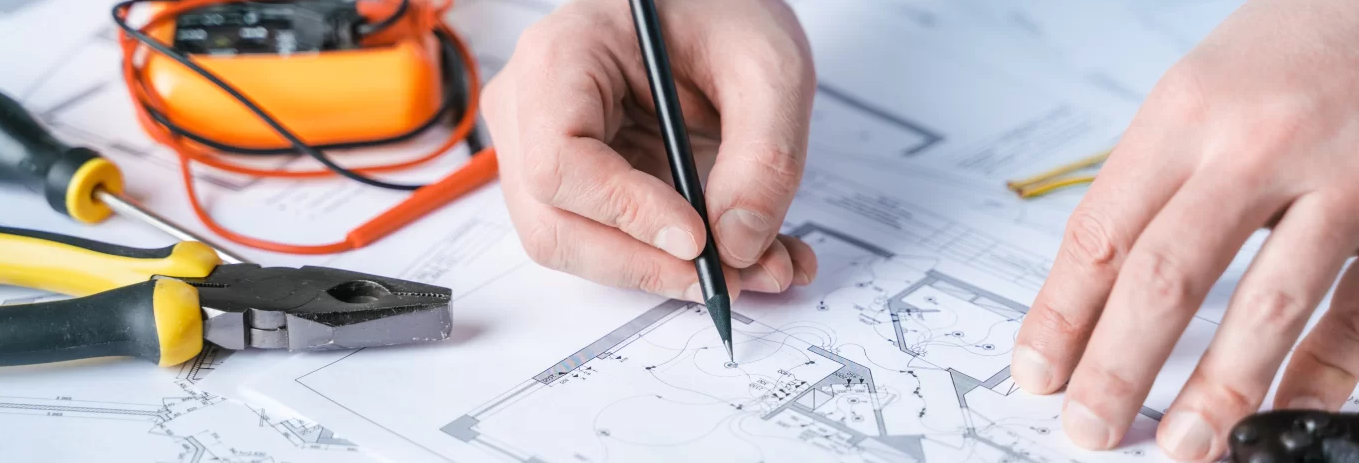
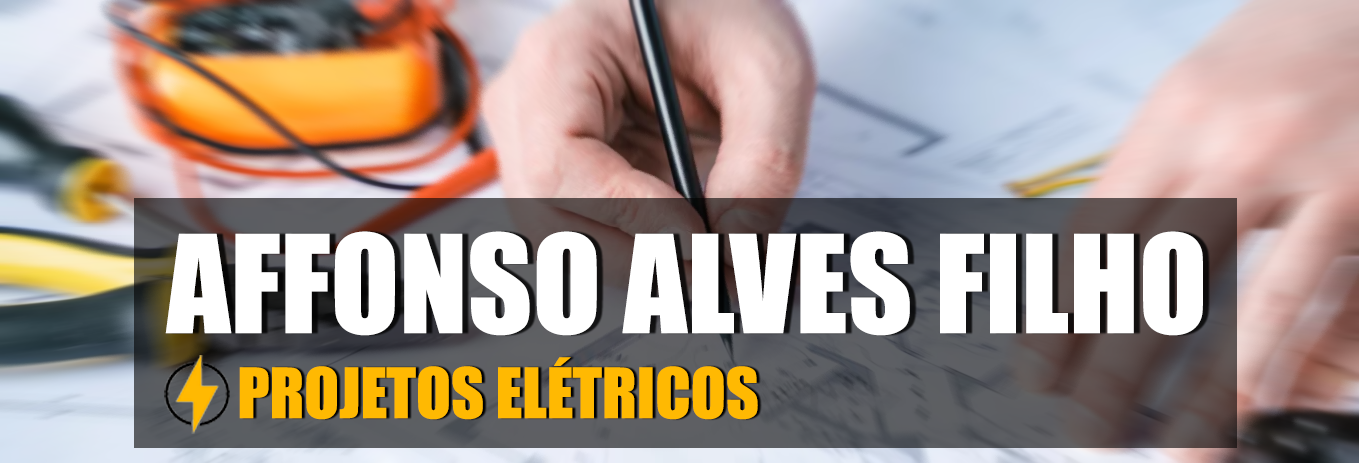
Acervo data added

diff --git a/src/components/ProjectSlider.vue b/src/components/ProjectSlider.vue
@@ -5,11 +5,11 @@
         <div class="w-1/2 p-8 bg-blue-950 text-white flex items-center">
           <div>
             <h2 class="text-2xl font-bold">{{ item.title }}</h2>
-            <p class="mt-4">{{ item.text }}</p>
+            <p class="mt-4 text-justify">{{ item.text }}</p>
           </div>
         </div>
         <div class="w-1/2">
-          <img :src="item.image" alt="Image" class="object-cover w-full h-full" />
+          <img :src="item.image" alt="Image" class="object-contain w-full h-full" />
         </div>
       </div>
     </div>
@@ -35,26 +35,31 @@ import { ref } from 'vue';
 const currentIndex = ref(0);
 const items = [
   {
-    title: "Projeto 1",
-    text: "Texto para descrever o projeto.",
-    image: "https://via.placeholder.com/400",
+    title: "PROJETO DE INSTALAÇÕES ELÉTRICAS A EDIFICAÇÕES INDIVIDUAIS",
+    text: "",
+    image: "src/assets/img/projeto01.png",
   },
   {
-    title: "Projeto 2",
-    text: "Texto para descrever o projeto.",
-    image: "https://via.placeholder.com/400",
+    title: "PROJETO DE INSTALAÇÕES ELÉTRICAS RESIDENCIAIS MULTIFAMILIAR",
+    text: "",
+    image: "src/assets/img/projeto02.png",
   },
   {
-    title: "Projeto 3",
-    text: "Texto para descrever o projeto.",
-    image: "https://via.placeholder.com/400",
+    title: "PROJETO DE INSTALAÇÕES ELÉTRICAS DE MEDIÇÃO AGRUPADA OU PADRÃO DE ENTRADA INDIVIDUAL",
+    text: "",
+    image: "src/assets/img/projeto03.png",
   },
   {
-    title: "Projeto 4",
-    text: "Texto para descrever o projeto.",
-    image: "https://via.placeholder.com/400",
+    title: "PROJETO DE INSTALAÇÕES ELÉTRICAS COMERCIAIS",
+    text: "",
+    image: "src/assets/img/projeto04.png",
   },
 ];
+
+items[0].text = "O projeto de instalações elétricas a edificações individuais deverá ser desenvolvido observando as recomendações das Normas: Norma NBR-5410/2004 da ABNT - Associação Brasileira de Normas Técnicas que norteia as INSTALAÇÕES ELÉTRICAS EM BAIXA TENSÃO, da Norma COELBA DIS-NOR-030 – FORNECIMENTO DE ENERGIA ELÉTRICA EM TENSÃO SECUNDÁRIA DE DISTRIBUIÇÃO A EDIFICAÇÕES INDIVIDUAIS, concessionária de Energia Elétrica do Estado da Bahia, pertencente ao grupo NEOENERGIA, e as especificações dos fabricantes dos materiais elétricos e seu modo de aplicação e utilização. O projeto elétrico é importante porque, se bem desenvolvido, deve promover conforto, segurança e economia. O projeto elétrico a edificações individuais deve: Dimensionar e quantificar a instalação, definir a localização dos pontos de tomada e iluminação, definir o trajeto dos eletrodutos, definir a distribuição dos circuitos e seus dispositivos de proteção, considerando as necessidades do cliente. As etapas para elaboração de um projeto elétrico são: Estudo preliminar, Anteprojeto, Projeto básico, Projeto executivo, Verificação e revisão."
+items[1].text = "As construções de múltiplas unidades consumidoras podem ser Condomínio Fechado Horizontal, chamados de Villages ou Condomínio Fechado Vertical, chamados prédio de apartamentos ou edifício residencial. O projeto de instalações elétricas dessas unidades deverão ser desenvolvidos observando as recomendações das Normas: Norma NBR-5410/2004 da ABNT - Associação Brasileira de Normas Técnicas que norteia as INSTALAÇÕES ELÉTRICAS EM BAIXA TENSÃO, das Normas COELBA DIS-NOR-030 – FORNECIMENTO DE ENERGIA ELÉTRICA EM TENSÃO SECUNDÁRIA DE DISTRIBUIÇÃO A EDIFICAÇÕES INDIVIDUAIS e DIS-NOR-053 - FORNECIMENTO DE ENERGIA ELÉTRICA À EDIFICAÇÕES COM MÚLTIPLAS UNIDADES CONSUMIDORAS ATÉ 34,5kV, concessionária de Energia Elétrica do Estado da Bahia, pertencente ao Grupo NEOENERGIA, e as especificações dos fabricantes dos materiais/equipamentos elétricos e seu modo de aplicação e utilização. O projeto elétrico é importante porque, se bem desenvolvido, deve promover conforto, segurança e economia. O projeto de instalações elétricas de múltiplas unidades consumidoras deve: dimensionar e quantificar a instalação, definir a localização dos pontos de tomada e iluminação individuais e coletivos, definir o trajeto dos eletrodutos, definir a distribuição dos circuitos e seus dispositivos de proteção, considerando as necessidades individuais e coletivas. As etapas para elaboração de um projeto elétrico de residenciais multifamiliar são: Estudo preliminar, Anteprojeto, Projeto básico, Projeto executivo, Verificação e revisão."
+items[2].text = "Os projetos de instalações elétricas de medição agrupada ou padrão de entrada individual são projetos destinados a atender a múltiplas unidades consumidoras em baixa tensão ou um consumidor individual. Os projetos de instalações elétricas de medição agrupada podem ser Condomínio Fechado Horizontal, chamados de Villages ou Condomínio Fechado Vertical, chamados prédio de apartamentos ou edifício residencial. Os projetos de padrões de entrada de medição de energia podem ser individualizados (um único consumidor) ou agrupada, várias unidades, os quais deverão atender as recomendações das Normas: Norma NBR-5410/2004 da ABNT - Associação Brasileira de Normas Técnicas que norteia as INSTALAÇÕES ELÉTRICAS EM BAIXA TENSÃO, das Normas COELBA DIS-NOR-030 – FORNECIMENTO DE ENERGIA ELÉTRICA EM TENSÃO SECUNDÁRIA DE DISTRIBUIÇÃO A EDIFICAÇÕES INDIVIDUAIS e DIS-NOR-053 - FORNECIMENTO DE ENERGIA ELÉTRICA À EDIFICAÇÕES COM MÚLTIPLAS UNIDADES CONSUMIDORAS ATÉ 34,5kV, concessionária de Energia Elétrica do Estado da Bahia, pertencente ao Grupo NEOENERGIA, e as especificações dos fabricantes dos materiais/equipamentos elétricos e seu modo de aplicação e utilização. O projeto elétrico é importante porque, se bem desenvolvido, deve promover conforto, segurança e economia. O projeto de instalações elétricas de medição agrupada ou padrão de entrada individual, deve: estabelecer a localização dos pontos de medição, dimensionar e quantificar a alimentação e proteção elétrica de cada unidade consumidora, definir o trajeto dos eletrodutos de cada unidade consumidora, considerando as necessidades individuais e coletivas. As etapas para elaboração de um projeto elétrico de medição agrupada são: Estudo preliminar, Anteprojeto, Projeto básico, Projeto executivo, Verificação e revisão."
+items[3].text = "O projeto de instalações elétricas comerciais deve ser desenvolvido observando as recomendações das Normas: Norma NBR-5410/2004 da ABNT - Associação Brasileira de Normas Técnicas que norteia as INSTALAÇÕES ELÉTRICAS EM BAIXA TENSÃO, da Norma COELBA DIS-NOR-030 – FORNECIMENTO DE ENERGIA ELÉTRICA EM TENSÃO SECUNDÁRIA DE DISTRIBUIÇÃO A EDIFICAÇÕES INDIVIDUAIS, concessionária de Energia Elétrica do Estado da Bahia, pertencente ao grupo NEOENERGIA, e as especificações dos fabricantes dos materiais elétricos e seu modo de aplicação e utilização. O projeto de instalações elétricas comerciais é importante porque, se bem desenvolvido, deve promover conforto, segurança e economia. O projeto de instalações elétricas comerciais deve: Dimensionar e quantificar a instalação, definir a localização dos pontos de tomada e iluminação, definir o trajeto dos eletrodutos, definir a distribuição dos circuitos e seus dispositivos de proteção, considerando as necessidades do cliente. As etapas para elaboração de um projeto elétrico são: Estudo preliminar, Anteprojeto, Projeto básico, Projeto executivo, Verificação e revisão."
 
 const nextSlide = () => {
   currentIndex.value = (currentIndex.value + 1) % items.length;

diff --git a/src/router/index.js b/src/router/index.js
@@ -15,7 +15,7 @@ const router = createRouter({
     },
     {
       path:'/Acervo',
-      name: 'Acervo',
+      name: 'Acervo', 
       component: AcervoPage
     },
     {

diff --git a/src/components/LandingPage.vue b/src/components/LandingPage.vue
@@ -1,5 +1,5 @@
 <script setup>
-import banner from '@/assets/img/bannewtxt.png'
+import banner from '@/assets/img/banner.png'
 </script>
 
 <template>
